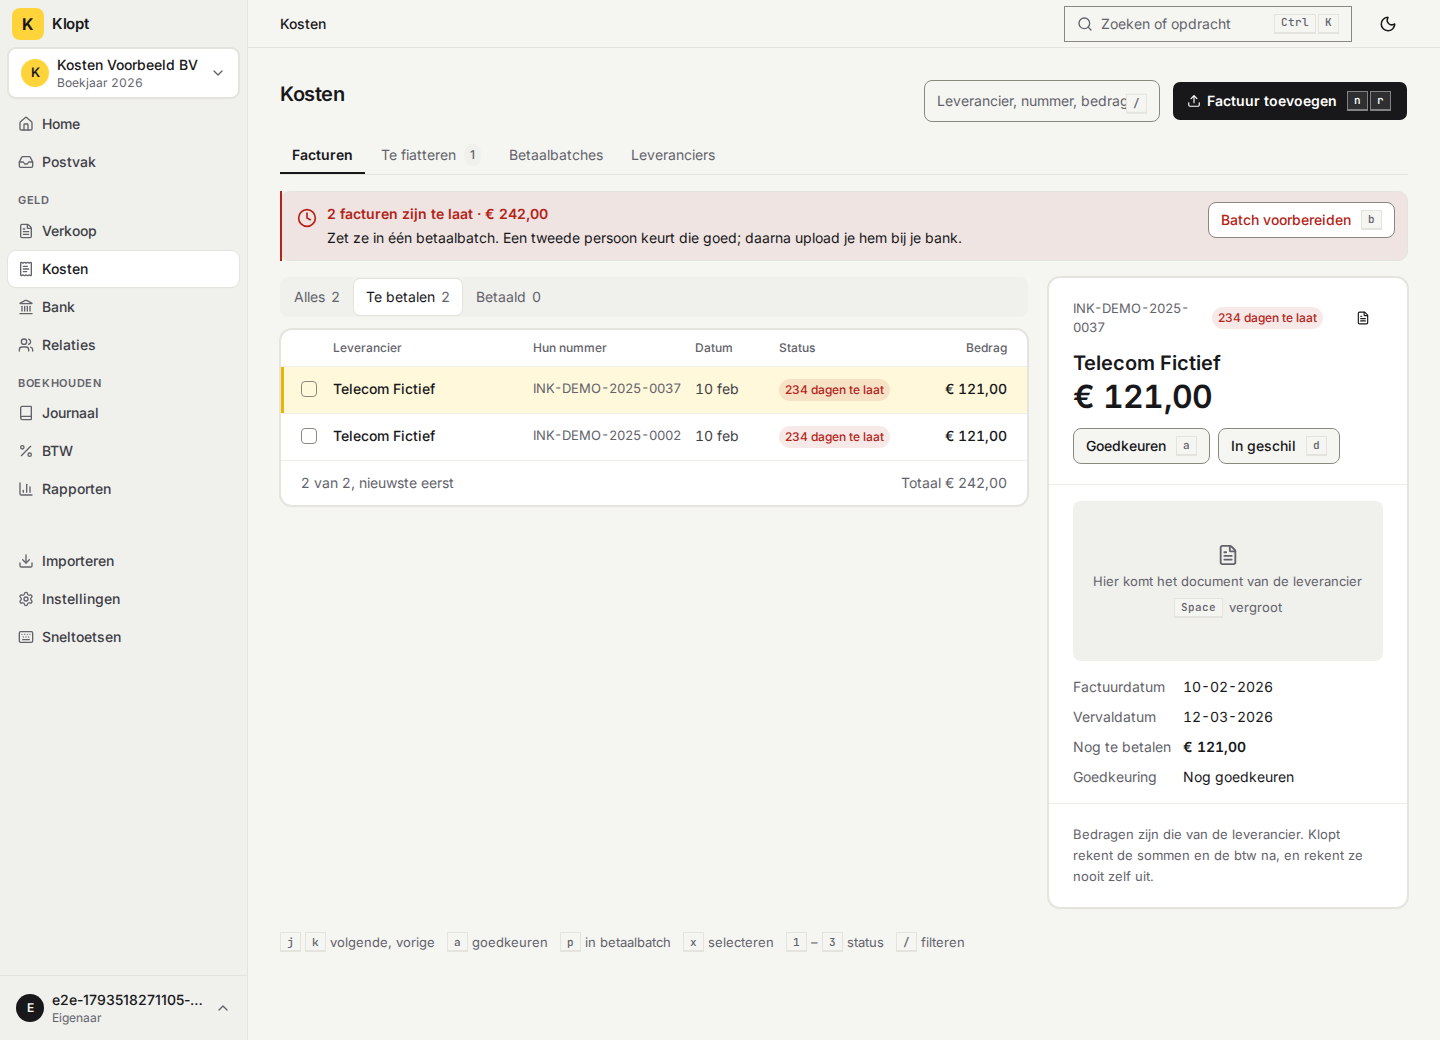
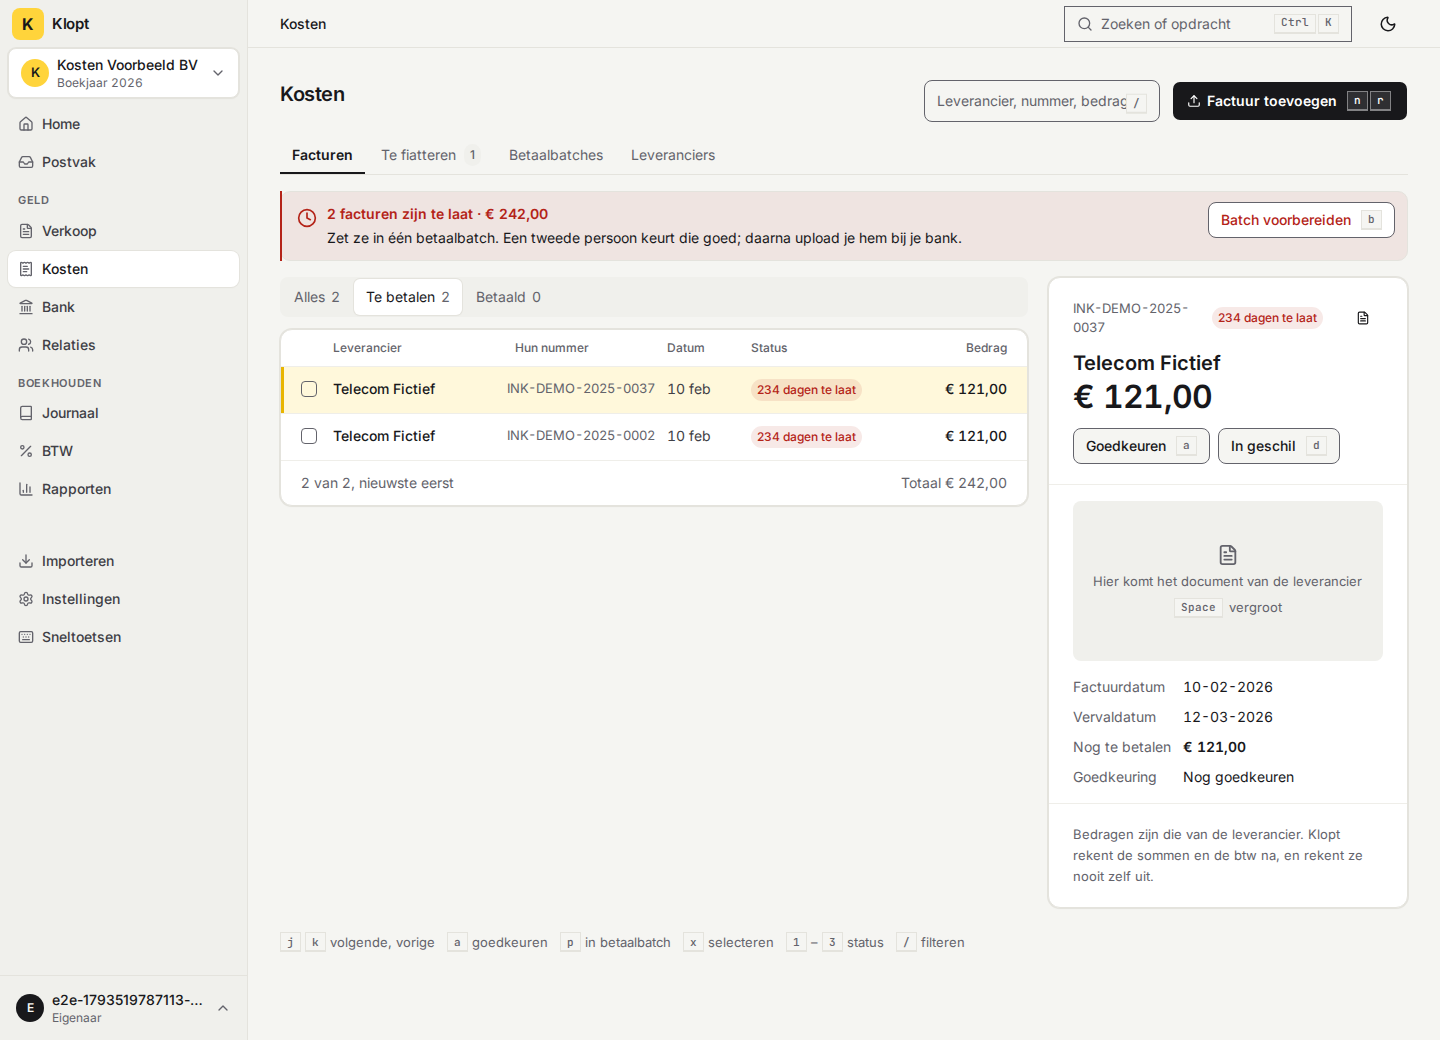
fix(web): Costs CoS — table fit, disabled selects, screenshots
Widen status/amount columns so pills are not clipped at 1440 with preview
open; make disabled selects and inputs use sunken ground; keep BillNew
placeholders legible via .field-control; refresh light/dark × 1440/390
PNGs. Fixture IBAN remains NL91ABNA0417164300.

diff --git a/apps/web/e2e/pr-screenshots-costs.spec.ts b/apps/web/e2e/pr-screenshots-costs.spec.ts
@@ -12,7 +12,7 @@ import {
 } from './support'
 
 /**
- * Public PNGs for Costs (#128) — Costs.dc.html desktop light 1440.
+ * Public PNGs for Costs (#128) — light/dark × 1440/390, empty + seeded.
  *
  * Fixture data only: example.nl, Telecom Fictief, fake IBAN. No real addresses.
  *
@@ -31,6 +31,18 @@ test.beforeAll(async () => {
 })
 
 test.skip(!CAPTURE, 'Set CAPTURE_PR_SCREENSHOTS=1 to write docs/pr-screenshots/')
+
+async function setTheme(page: Page, theme: 'light' | 'dark'): Promise<void> {
+  await page.emulateMedia({ reducedMotion: 'reduce' })
+  await page.evaluate((t) => {
+    document.documentElement.classList.toggle('dark', t === 'dark')
+  }, theme)
+  await page.waitForFunction(
+    (wantDark) => document.documentElement.classList.contains('dark') === wantDark,
+    theme === 'dark',
+  )
+  await page.waitForTimeout(250)
+}
 
 async function shoot(page: Page, name: string): Promise<void> {
   await page.evaluate(() => {
@@ -104,23 +116,49 @@ async function seedBills(page: Page): Promise<void> {
   }
 }
 
-test('Costs desktop-light 1440 screenshots', async ({ page }) => {
-  test.setTimeout(120_000)
+async function captureMatrix(
+  page: Page,
+  prefix: '01-costs-empty' | '02-costs-data',
+  opts: { selectPreview: boolean },
+): Promise<void> {
+  for (const theme of ['light', 'dark'] as const) {
+    await setTheme(page, theme)
+
+    await page.setViewportSize({ width: 1440, height: 1040 })
+    // hydrated() asserts the desktop rail kbd — only valid at ≥md.
+    await hydrated(page)
+    await expect(page.getByRole('heading', { name: 'Kosten' })).toBeVisible()
+    if (opts.selectPreview) {
+      await page.getByRole('heading', { name: 'Kosten' }).click()
+      await page.keyboard.press('ArrowDown')
+      await expect(page.getByRole('complementary', { name: 'Factuurvoorbeeld' })).toBeVisible()
+    }
+    await shoot(page, `${prefix}-${theme}-desktop-1440.png`)
+
+    await page.setViewportSize({ width: 390, height: 844 })
+    await expect(page.getByRole('heading', { name: 'Kosten' })).toBeVisible()
+    await expect(page.locator('[data-phone-tab-bar]')).toBeVisible()
+    await expect(page.locator('[data-phone-tab-bar]').getByText('Bon')).toBeVisible()
+    await shoot(page, `${prefix}-${theme}-mobile-390.png`)
+  }
+}
+
+test('Costs screenshots — light/dark × 1440/390, empty + seeded', async ({ page }) => {
+  test.setTimeout(240_000)
   await page.emulateMedia({ reducedMotion: 'reduce' })
-  await page.setViewportSize({ width: 1440, height: 1040 })
 
   await openFirm(page)
   await page.goto('/purchases')
   await hydrated(page)
   await expect(page.getByRole('heading', { name: 'Kosten' })).toBeVisible()
-  await shoot(page, '01-costs-empty-light-desktop-1440.png')
+  await captureMatrix(page, '01-costs-empty', { selectPreview: false })
 
+  // Forms and book/approve controls are desktop-oriented; leave phone before seeding.
+  await page.setViewportSize({ width: 1440, height: 1040 })
+  await setTheme(page, 'light')
   await seedBills(page)
   await page.goto('/purchases?segment=open')
   await hydrated(page)
   await expect(page.getByText('Telecom Fictief').first()).toBeVisible()
-  await page.getByRole('heading', { name: 'Kosten' }).click()
-  await page.keyboard.press('ArrowDown')
-  await expect(page.getByRole('complementary', { name: 'Factuurvoorbeeld' })).toBeVisible()
-  await shoot(page, '02-costs-data-light-desktop-1440.png')
+  await captureMatrix(page, '02-costs-data', { selectPreview: true })
 })

diff --git a/apps/web/src/routes/_app/purchases.index.tsx b/apps/web/src/routes/_app/purchases.index.tsx
@@ -470,9 +470,14 @@ function Costs() {
               {/* Desktop table */}
               <div className="border-border bg-surface hidden overflow-hidden rounded-[var(--radius-xl)] border shadow-[var(--shadow-raised)] md:block">
                 <div className="overflow-x-auto">
-                  <div className="min-w-[640px]">
+                  {/*
+                    Status needs ≥148px so “234 dagen te laat” is never clipped at
+                    1440 with the preview pane open (export used 120px; CoS: no
+                    cut-off cells). Supplier stays the flexible column.
+                  */}
+                  <div className="min-w-[720px]">
                     <div
-                      className="text-ink-muted grid grid-cols-[20px_minmax(150px,1fr)_150px_72px_120px_96px] gap-3 border-b border-[var(--line-soft)] px-5 py-2.5 text-xs font-medium"
+                      className="text-ink-muted grid grid-cols-[20px_minmax(140px,1fr)_minmax(140px,auto)_72px_minmax(148px,auto)_96px] gap-3 border-b border-[var(--line-soft)] px-5 py-2.5 text-xs font-medium"
                       role="row"
                     >
                       <span aria-hidden="true" />
@@ -498,7 +503,7 @@ function Costs() {
                             })
                           }}
                           className={cn(
-                            'hover:bg-surface-hover grid w-full grid-cols-[20px_minmax(150px,1fr)_150px_72px_120px_96px] gap-3 border-b border-[var(--line-soft)] px-5 py-3 text-left text-sm last:border-b-0',
+                            'hover:bg-surface-hover grid w-full grid-cols-[20px_minmax(140px,1fr)_minmax(140px,auto)_72px_minmax(148px,auto)_96px] gap-3 border-b border-[var(--line-soft)] px-5 py-3 text-left text-sm last:border-b-0',
                             'focus-visible:outline-solid focus-visible:outline-2 focus-visible:outline-offset-[-2px] focus-visible:outline-ring',
                             isActive &&
                               'bg-[var(--selection)] shadow-[inset_3px_0_0_0_var(--selection-edge)]',
@@ -518,10 +523,10 @@ function Costs() {
                           <span className="text-ink-2 whitespace-nowrap tabular-nums">
                             {shortDate(row.invoiceDate, t)}
                           </span>
-                          <span>
+                          <span className="min-w-0 whitespace-nowrap">
                             <PurchaseStatusPill pill={pill} />
                           </span>
-                          <span className="text-right font-medium">
+                          <span className="text-right font-medium whitespace-nowrap tabular-nums">
                             <EuroAmount amount={row.total} />
                           </span>
                         </button>

diff --git a/apps/web/src/components/ui/select.tsx b/apps/web/src/components/ui/select.tsx
@@ -73,7 +73,7 @@ function SelectTrigger({
         if (event.metaKey || event.ctrlKey || event.altKey) event.preventDefault()
       }}
       className={cn(
-        "flex w-fit items-center justify-between gap-1.5 rounded-[var(--radius-md)] border border-input bg-background px-2.5 py-2 text-sm whitespace-nowrap transition-[color,border-color] outline-none focus-visible:outline-solid focus-visible:outline-2 focus-visible:outline-offset-2 focus-visible:outline-ring disabled:cursor-not-allowed disabled:opacity-50 aria-invalid:border-destructive data-placeholder:text-muted-foreground data-[size=default]:h-10 data-[size=sm]:h-9 *:data-[slot=select-value]:line-clamp-1 *:data-[slot=select-value]:flex *:data-[slot=select-value]:items-center *:data-[slot=select-value]:gap-1.5 dark:aria-invalid:border-destructive/50 [&_svg]:pointer-events-none [&_svg]:shrink-0 [&_svg:not([class*='size-'])]:size-3.5",
+        "flex w-fit items-center justify-between gap-1.5 rounded-[var(--radius-md)] border border-input bg-background px-2.5 py-2 text-sm whitespace-nowrap transition-[color,border-color,background-color] outline-none focus-visible:outline-solid focus-visible:outline-2 focus-visible:outline-offset-2 focus-visible:outline-ring disabled:cursor-not-allowed disabled:bg-surface-sunken disabled:text-ink-muted disabled:opacity-100 aria-invalid:border-destructive data-placeholder:text-muted-foreground data-[size=default]:h-10 data-[size=sm]:h-9 *:data-[slot=select-value]:line-clamp-1 *:data-[slot=select-value]:flex *:data-[slot=select-value]:items-center *:data-[slot=select-value]:gap-1.5 dark:aria-invalid:border-destructive/50 [&_svg]:pointer-events-none [&_svg]:shrink-0 [&_svg:not([class*='size-'])]:size-3.5",
         className,
       )}
       {...props}

diff --git a/apps/web/src/components/ui/input.tsx b/apps/web/src/components/ui/input.tsx
@@ -22,9 +22,9 @@ const Input = React.forwardRef<HTMLInputElement, React.ComponentProps<'input'>>(
       data-slot="input"
       className={cn(
         'field-control transition-[color,border-color,background-color] duration-[120ms]',
-        'placeholder:text-muted-foreground',
+        'placeholder:text-muted-foreground placeholder:opacity-100',
         'focus-visible:outline-solid focus-visible:outline-2 focus-visible:outline-offset-0 focus-visible:outline-ring',
-        'disabled:pointer-events-none disabled:cursor-not-allowed disabled:opacity-50',
+        'disabled:pointer-events-none disabled:cursor-not-allowed disabled:bg-surface-sunken disabled:text-ink-muted disabled:opacity-100',
         'aria-invalid:border-destructive aria-invalid:outline-solid aria-invalid:outline-2 aria-invalid:outline-offset-0 aria-invalid:outline-destructive',
         'file:inline-flex file:h-7 file:border-0 file:bg-transparent file:text-sm file:font-medium file:text-foreground',
         'motion-reduce:transition-none',

diff --git a/apps/web/src/components/finance/account-picker.tsx b/apps/web/src/components/finance/account-picker.tsx
@@ -280,7 +280,7 @@ export function AccountPicker({
         <div
           className={cn(
             'border-input bg-background focus-within:border-ring flex items-center gap-2 border px-2 py-1.5',
-            disabled && 'opacity-50',
+            disabled && 'cursor-not-allowed bg-surface-sunken text-ink-muted opacity-100',
             inputClassName,
           )}
         >
